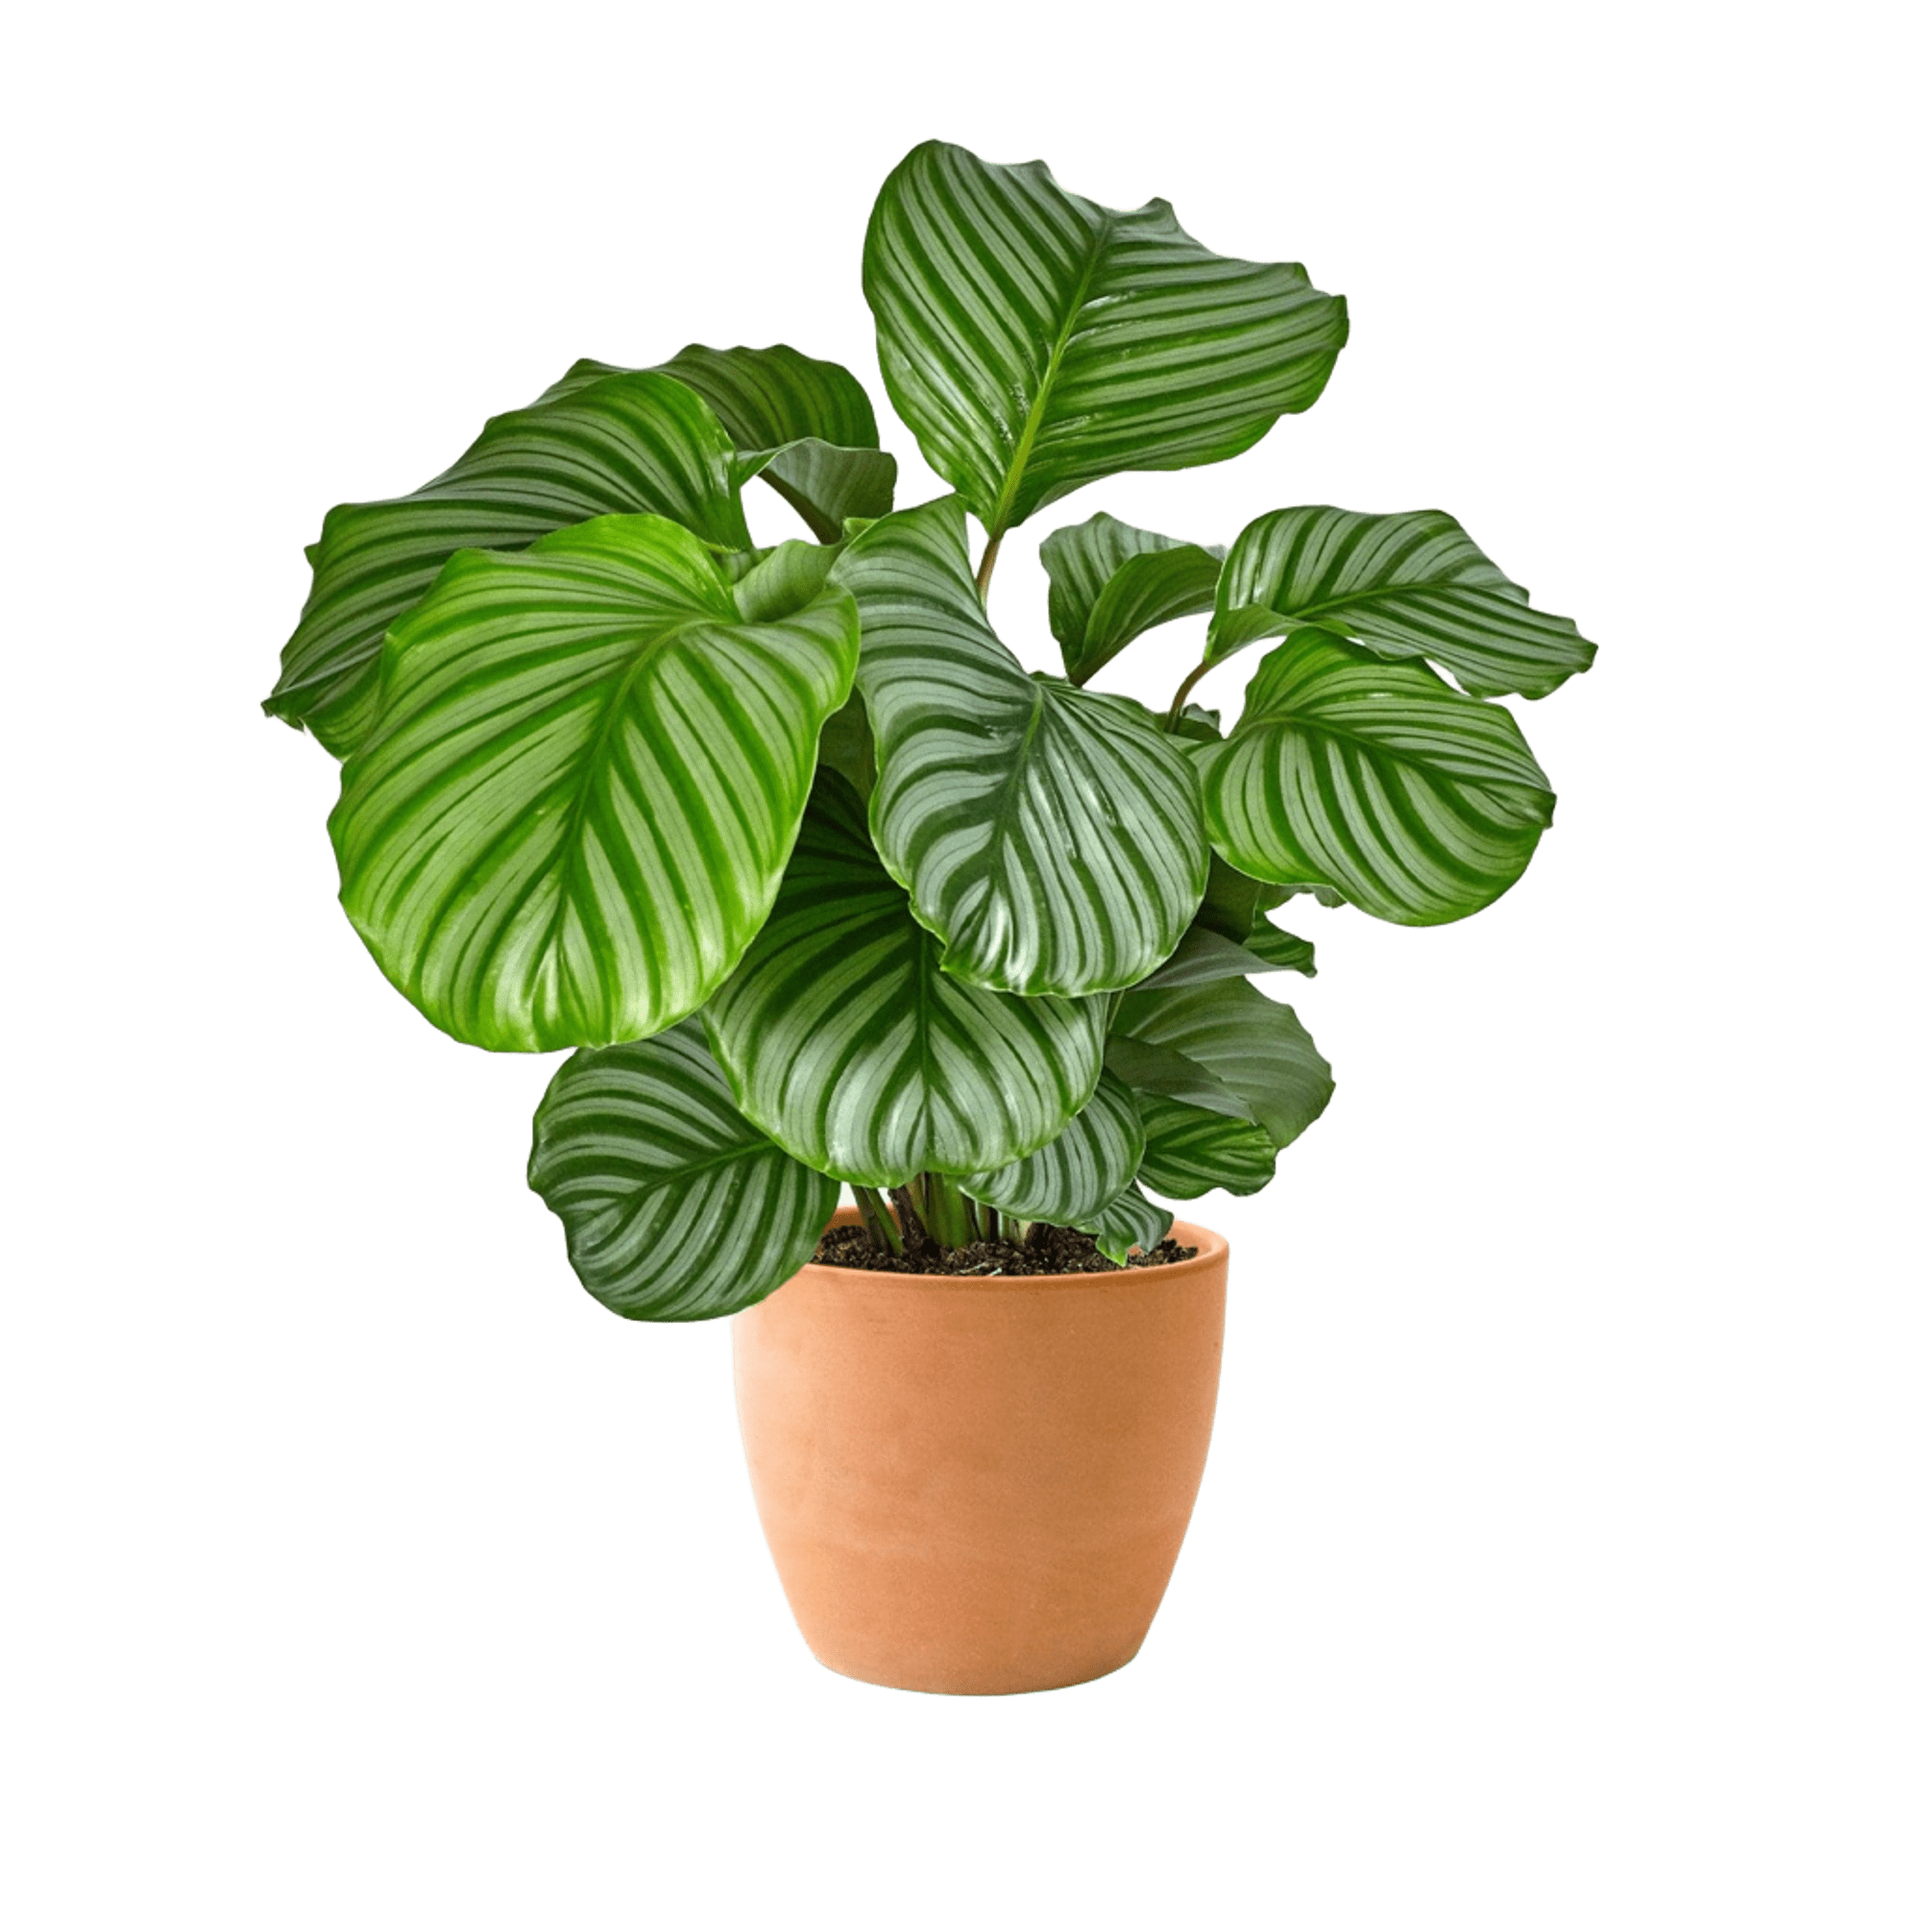
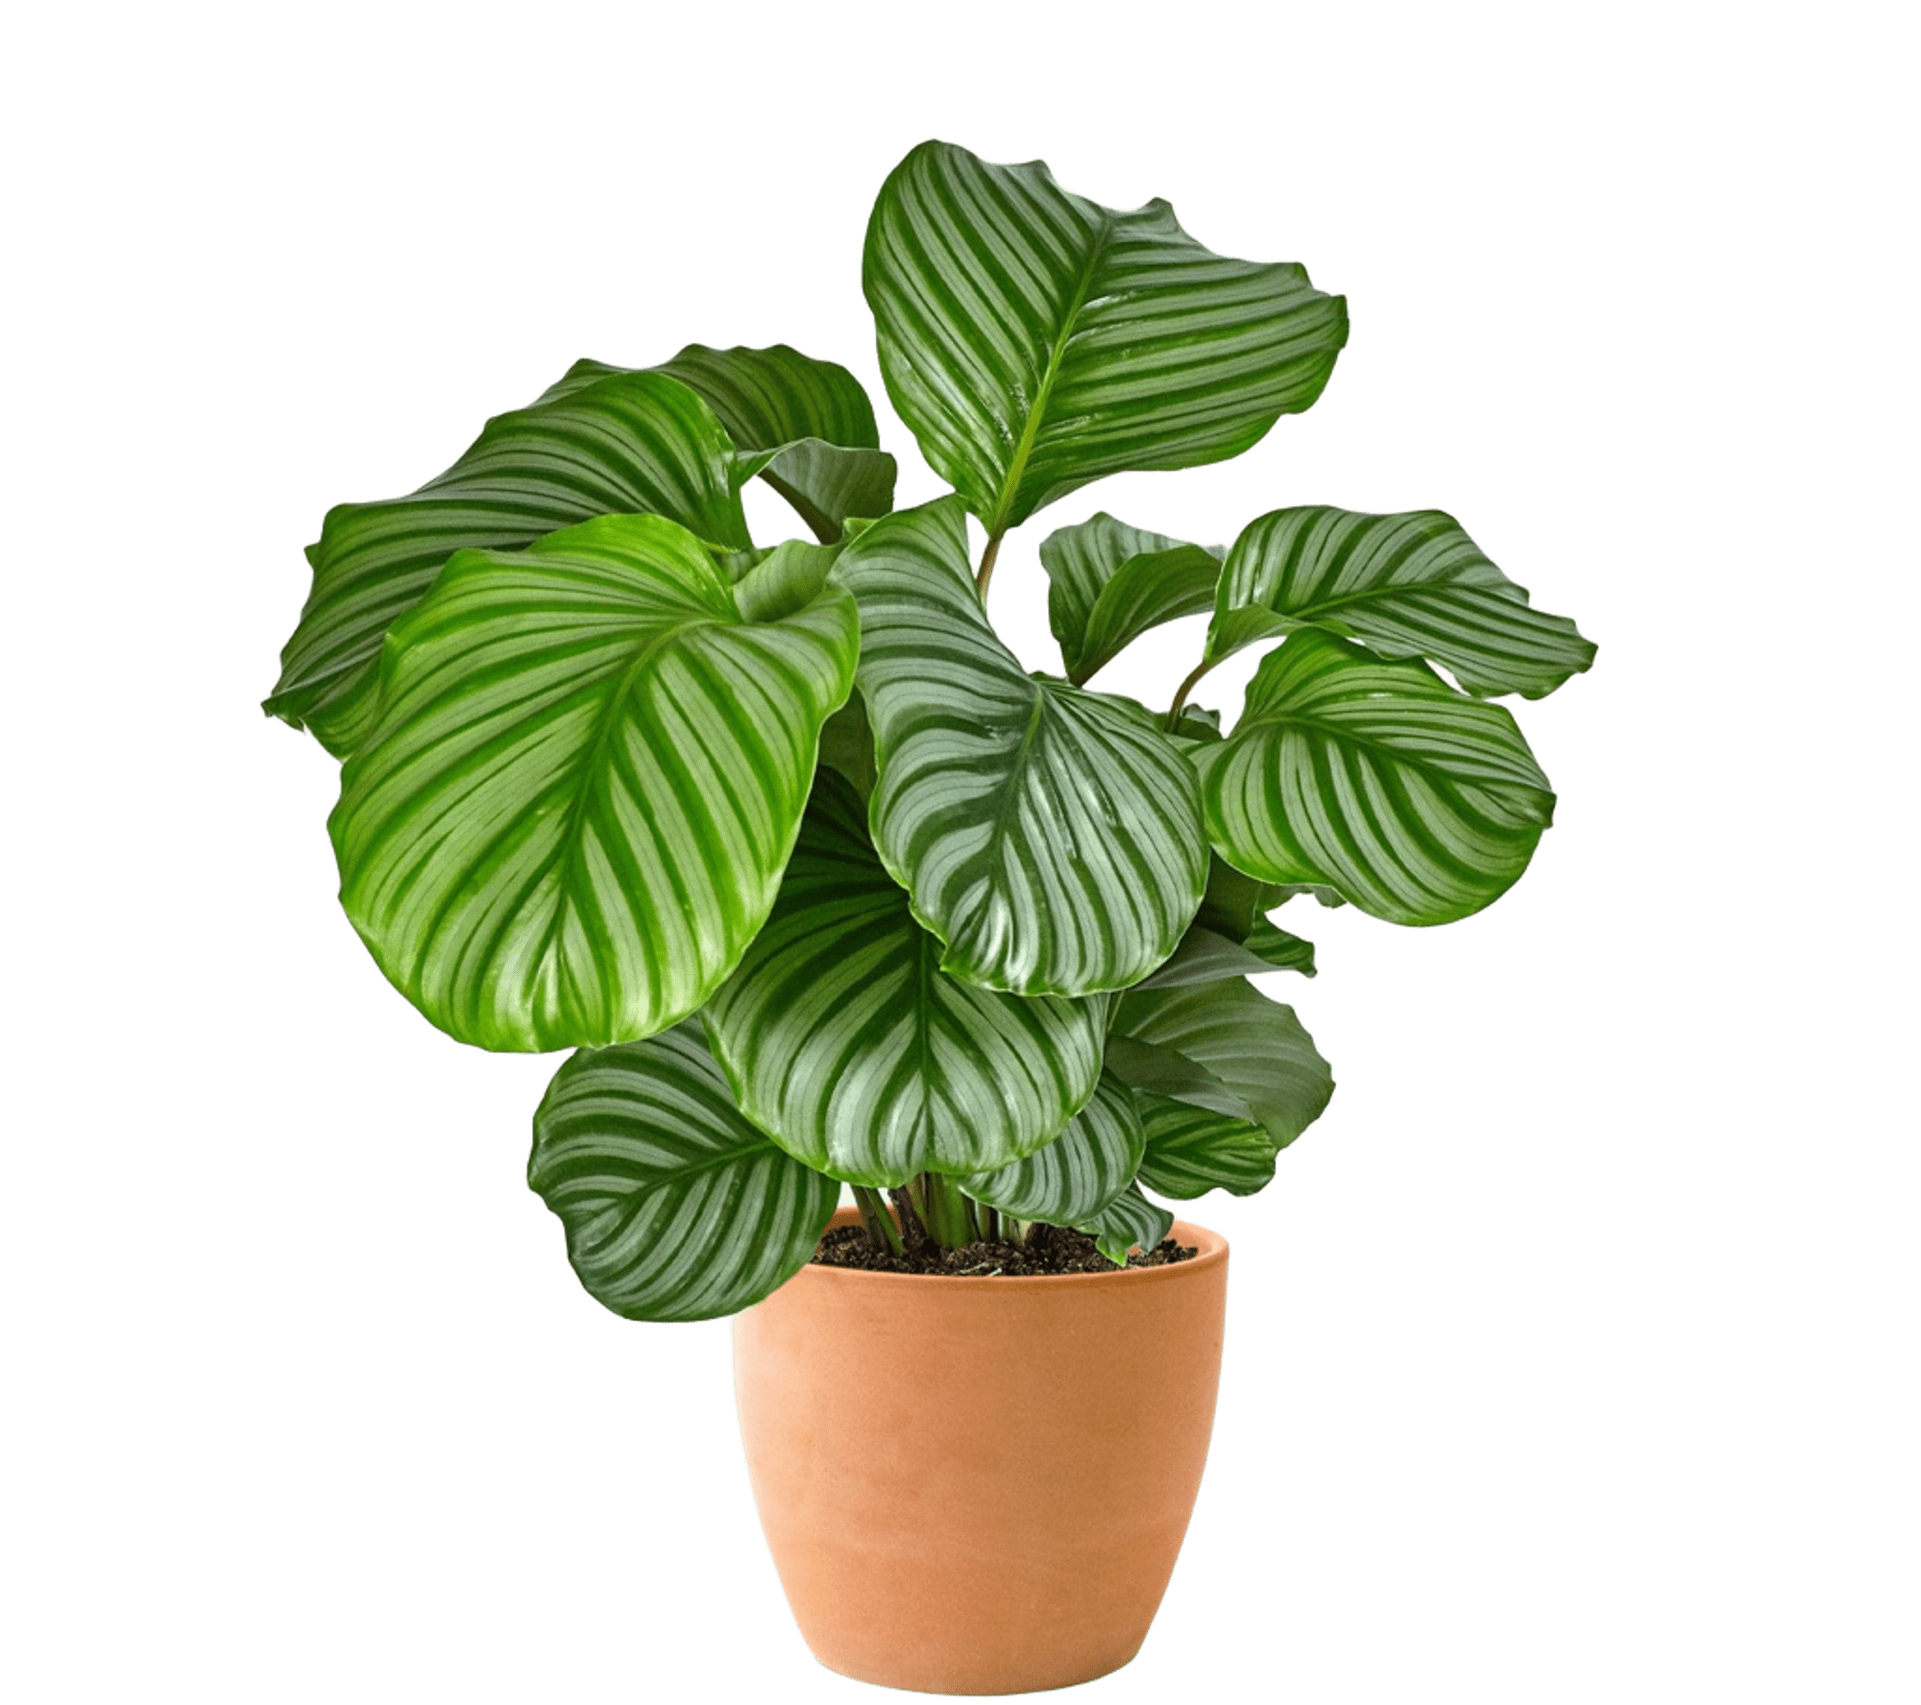
create home page

Changed region(s): [[0.124, 0.062, 0.837, 1.0]]

diff --git a/lib/main.dart b/lib/main.dart
@@ -1,4 +1,5 @@
 import 'package:flutter/material.dart';
+import 'package:pant_app/screens/home_page.dart';
 
 void main() {
   runApp(const MyApp());
@@ -11,112 +12,9 @@ class MyApp extends StatelessWidget {
   @override
   Widget build(BuildContext context) {
     return MaterialApp(
-      title: 'Flutter Demo',
-      theme: ThemeData(
-        // This is the theme of your application.
-        //
-        // TRY THIS: Try running your application with "flutter run". You'll see
-        // the application has a purple toolbar. Then, without quitting the app,
-        // try changing the seedColor in the colorScheme below to Colors.green
-        // and then invoke "hot reload" (save your changes or press the "hot
-        // reload" button in a Flutter-supported IDE, or press "r" if you used
-        // the command line to start the app).
-        //
-        // Notice that the counter didn't reset back to zero; the application
-        // state is not lost during the reload. To reset the state, use hot
-        // restart instead.
-        //
-        // This works for code too, not just values: Most code changes can be
-        // tested with just a hot reload.
-        colorScheme: .fromSeed(seedColor: Colors.deepPurple),
-      ),
-      home: const MyHomePage(title: 'Flutter Demo Home Page'),
-    );
-  }
-}
-
-class MyHomePage extends StatefulWidget {
-  const MyHomePage({super.key, required this.title});
-
-  // This widget is the home page of your application. It is stateful, meaning
-  // that it has a State object (defined below) that contains fields that affect
-  // how it looks.
-
-  // This class is the configuration for the state. It holds the values (in this
-  // case the title) provided by the parent (in this case the App widget) and
-  // used by the build method of the State. Fields in a Widget subclass are
-  // always marked "final".
-
-  final String title;
-
-  @override
-  State<MyHomePage> createState() => _MyHomePageState();
-}
-
-class _MyHomePageState extends State<MyHomePage> {
-  int _counter = 0;
-
-  void _incrementCounter() {
-    setState(() {
-      // This call to setState tells the Flutter framework that something has
-      // changed in this State, which causes it to rerun the build method below
-      // so that the display can reflect the updated values. If we changed
-      // _counter without calling setState(), then the build method would not be
-      // called again, and so nothing would appear to happen.
-      _counter++;
-    });
-  }
-
-  @override
-  Widget build(BuildContext context) {
-    // This method is rerun every time setState is called, for instance as done
-    // by the _incrementCounter method above.
-    //
-    // The Flutter framework has been optimized to make rerunning build methods
-    // fast, so that you can just rebuild anything that needs updating rather
-    // than having to individually change instances of widgets.
-    return Scaffold(
-      appBar: AppBar(
-        // TRY THIS: Try changing the color here to a specific color (to
-        // Colors.amber, perhaps?) and trigger a hot reload to see the AppBar
-        // change color while the other colors stay the same.
-        backgroundColor: Theme.of(context).colorScheme.inversePrimary,
-        // Here we take the value from the MyHomePage object that was created by
-        // the App.build method, and use it to set our appbar title.
-        title: Text(widget.title),
-      ),
-      body: Center(
-        // Center is a layout widget. It takes a single child and positions it
-        // in the middle of the parent.
-        child: Column(
-          // Column is also a layout widget. It takes a list of children and
-          // arranges them vertically. By default, it sizes itself to fit its
-          // children horizontally, and tries to be as tall as its parent.
-          //
-          // Column has various properties to control how it sizes itself and
-          // how it positions its children. Here we use mainAxisAlignment to
-          // center the children vertically; the main axis here is the vertical
-          // axis because Columns are vertical (the cross axis would be
-          // horizontal).
-          //
-          // TRY THIS: Invoke "debug painting" (choose the "Toggle Debug Paint"
-          // action in the IDE, or press "p" in the console), to see the
-          // wireframe for each widget.
-          mainAxisAlignment: .center,
-          children: [
-            const Text('You have pushed the button this many times:'),
-            Text(
-              '$_counter',
-              style: Theme.of(context).textTheme.headlineMedium,
-            ),
-          ],
-        ),
-      ),
-      floatingActionButton: FloatingActionButton(
-        onPressed: _incrementCounter,
-        tooltip: 'Increment',
-        child: const Icon(Icons.add),
-      ),
+      debugShowCheckedModeBanner: false,
+      title: 'GreenAura App',
+      home: HomePage(),
     );
   }
 }

diff --git a/lib/screens/home_page.dart b/lib/screens/home_page.dart
@@ -1,0 +1,155 @@
+import 'package:flutter/material.dart';
+import 'package:pant_app/const/constant.dart';
+
+class HomePage extends StatefulWidget {
+  const HomePage({super.key});
+
+  @override
+  State<HomePage> createState() => _HomePageState();
+}
+
+class _HomePageState extends State<HomePage> {
+  final PageController _pageController = PageController(initialPage: 0);
+  int currentIndex = 0;
+
+  Widget _indecator(bool isActive) {
+    return AnimatedContainer(
+      duration: Duration(microseconds: 300),
+      height: 10,
+      margin: EdgeInsets.all(2),
+      width: isActive ? 20 : 8,
+      decoration: BoxDecoration(
+        color: Constant.darkGreen,
+        borderRadius: BorderRadius.circular(5),
+      ),
+    );
+  }
+
+  List<Widget> _buildIndecator() {
+    List<Widget> indecators = [];
+    for (int i = 0; i < 3; i++) {
+      if (currentIndex == i) {
+        indecators.add(_indecator(true));
+      } else {
+        indecators.add(_indecator(false));
+      }
+    }
+    return indecators;
+  }
+
+  @override
+  Widget build(BuildContext context) {
+    return Scaffold(
+      backgroundColor: Constant.background,
+      appBar: AppBar(
+        backgroundColor: Colors.transparent,
+        elevation: 0,
+        actions: [
+          Padding(
+            padding: const EdgeInsets.only(right: 10),
+            child: InkWell(
+              onTap: () {},
+              child: Text(
+                'Skip',
+                style: TextStyle(
+                  color: Constant.gray,
+                  fontWeight: FontWeight.bold,
+                ),
+              ),
+            ),
+          ),
+        ],
+      ),
+      body: Stack(
+        children: [
+          PageView(
+            controller: _pageController,
+            onPageChanged: (int page) {
+              setState(() {
+                currentIndex = page;
+              });
+            },
+            children: [
+              CreatePage(
+                image: 'assets/images/calathea-orbifolia.png',
+                title: Constant.titleOne,
+                description: Constant.descriptionOne,
+              ),
+              CreatePage(
+                image: 'assets/images/rubber-plant.png',
+                title: Constant.titleTwo,
+                description: Constant.descriptionTwo,
+              ),
+              CreatePage(
+                image: 'assets/images/peace-plant.png',
+                title: Constant.titleThree,
+                description: Constant.descriptionThree,
+              ),
+            ],
+          ),
+          Positioned(
+            bottom: 80,
+            left: 30,
+            child: Row(children: _buildIndecator()),
+          ),
+          Positioned(
+            bottom: 70,
+            right: 30,
+            child: Container(
+              padding: EdgeInsets.all(3),
+              decoration: BoxDecoration(
+                shape: BoxShape.circle,
+                color: Constant.darkGreen,
+              ),
+              child: IconButton(
+                onPressed: () {},
+                icon: Icon(Icons.arrow_forward_ios, color: Constant.white),
+              ),
+            ),
+          ),
+        ],
+      ),
+    );
+  }
+}
+
+class CreatePage extends StatelessWidget {
+  final String image;
+  final String title;
+  final String description;
+  const new({
+    super.key,
+    required this.title,
+    required this.description,
+    required this.image,
+  });
+
+  @override
+  Widget build(BuildContext context) {
+    return Padding(
+      padding: const EdgeInsets.symmetric(horizontal: 8),
+      child: Column(
+        mainAxisAlignment: MainAxisAlignment.center,
+        children: [
+          SizedBox(height: 325, width: 325, child: Image.asset(image)),
+          Text(
+            title,
+            style: TextStyle(
+              fontWeight: FontWeight.bold,
+              color: const Color.fromARGB(255, 18, 80, 20),
+              fontSize: 35,
+            ),
+          ),
+          Text(
+            description,
+            style: TextStyle(
+              color: const Color.fromARGB(255, 18, 80, 20),
+              fontSize: 15,
+            ),
+          ),
+          SizedBox(height: 125),
+        ],
+      ),
+    );
+  }
+}
